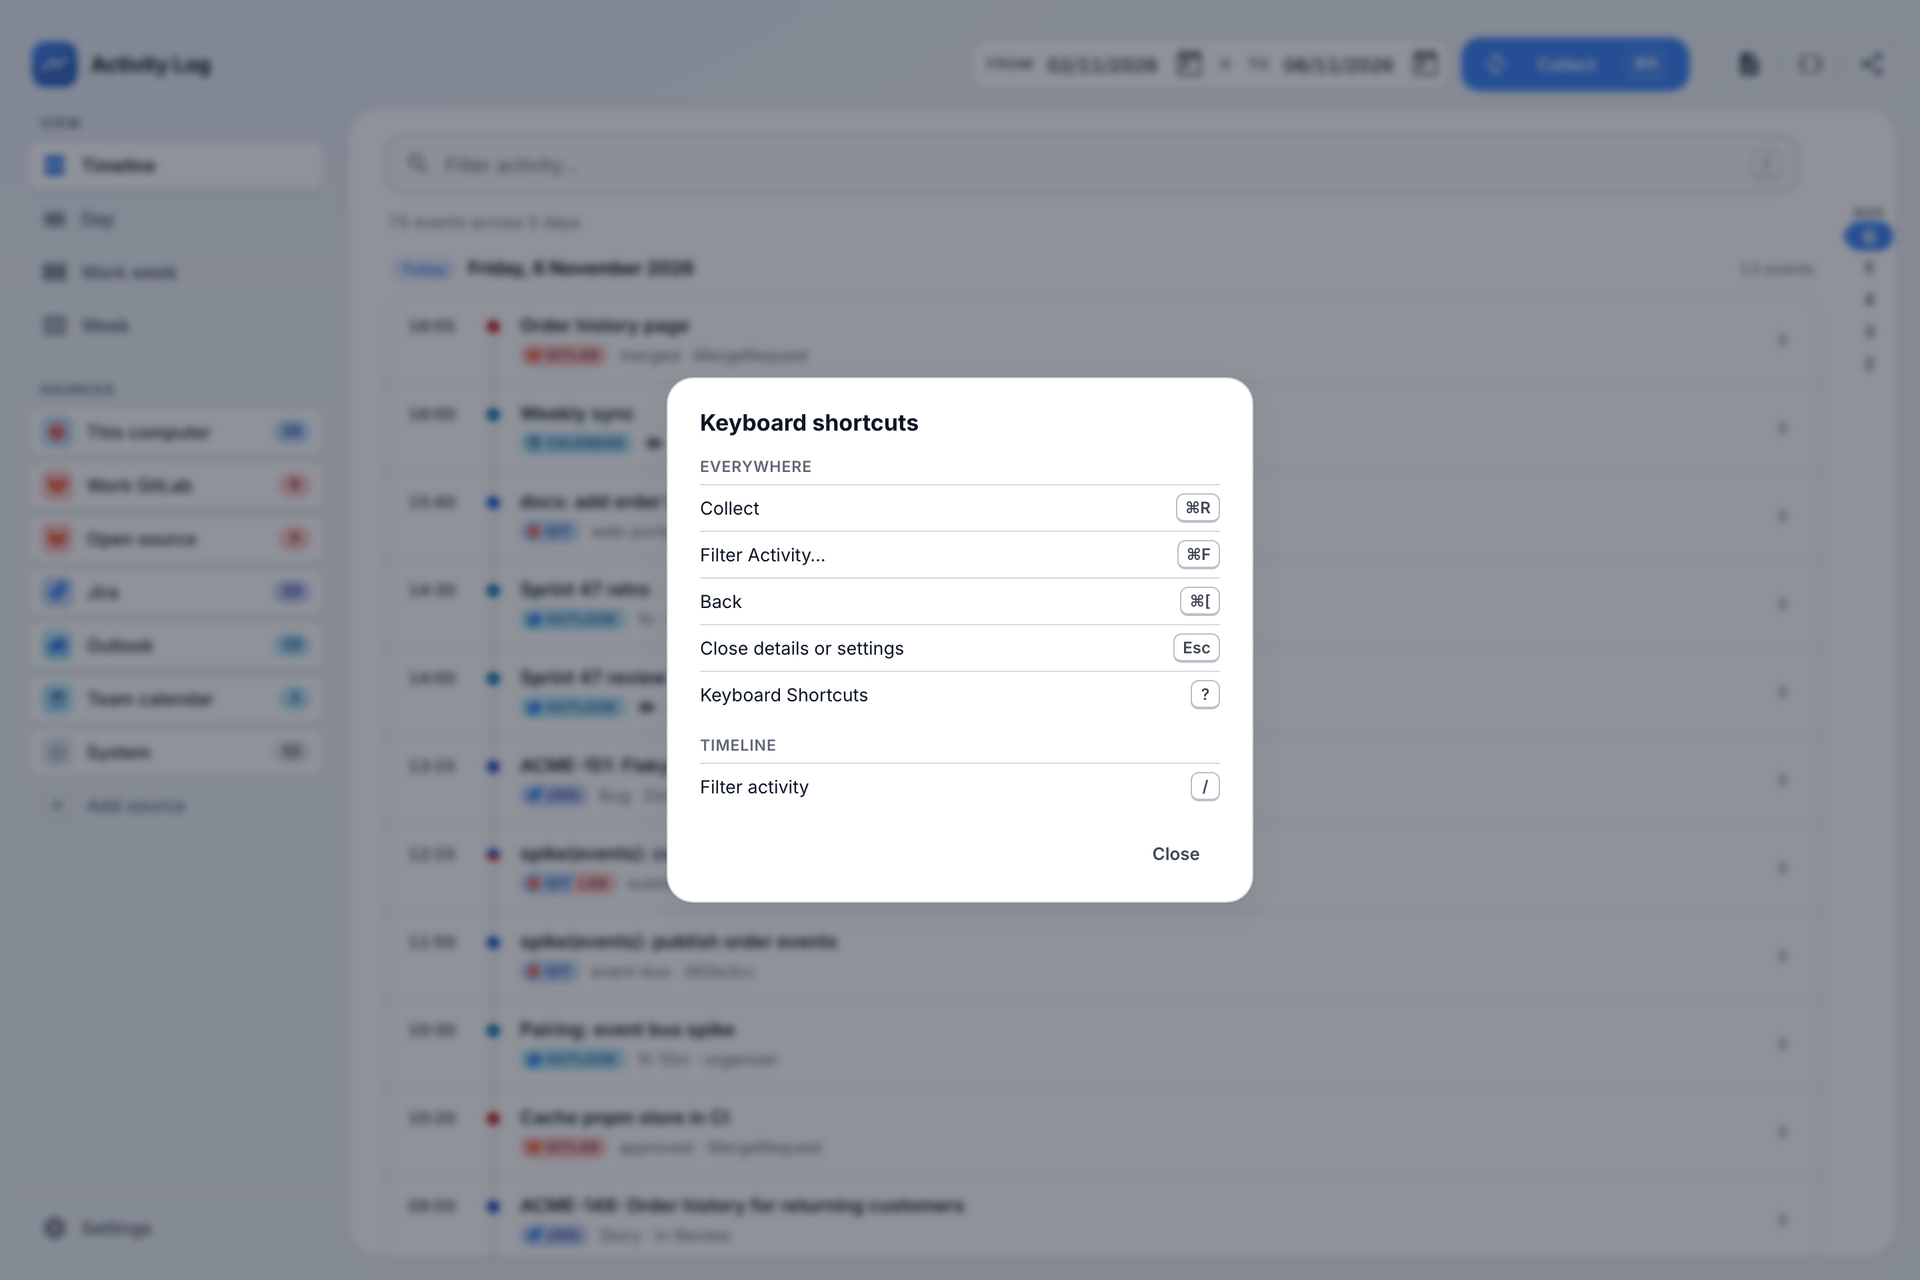
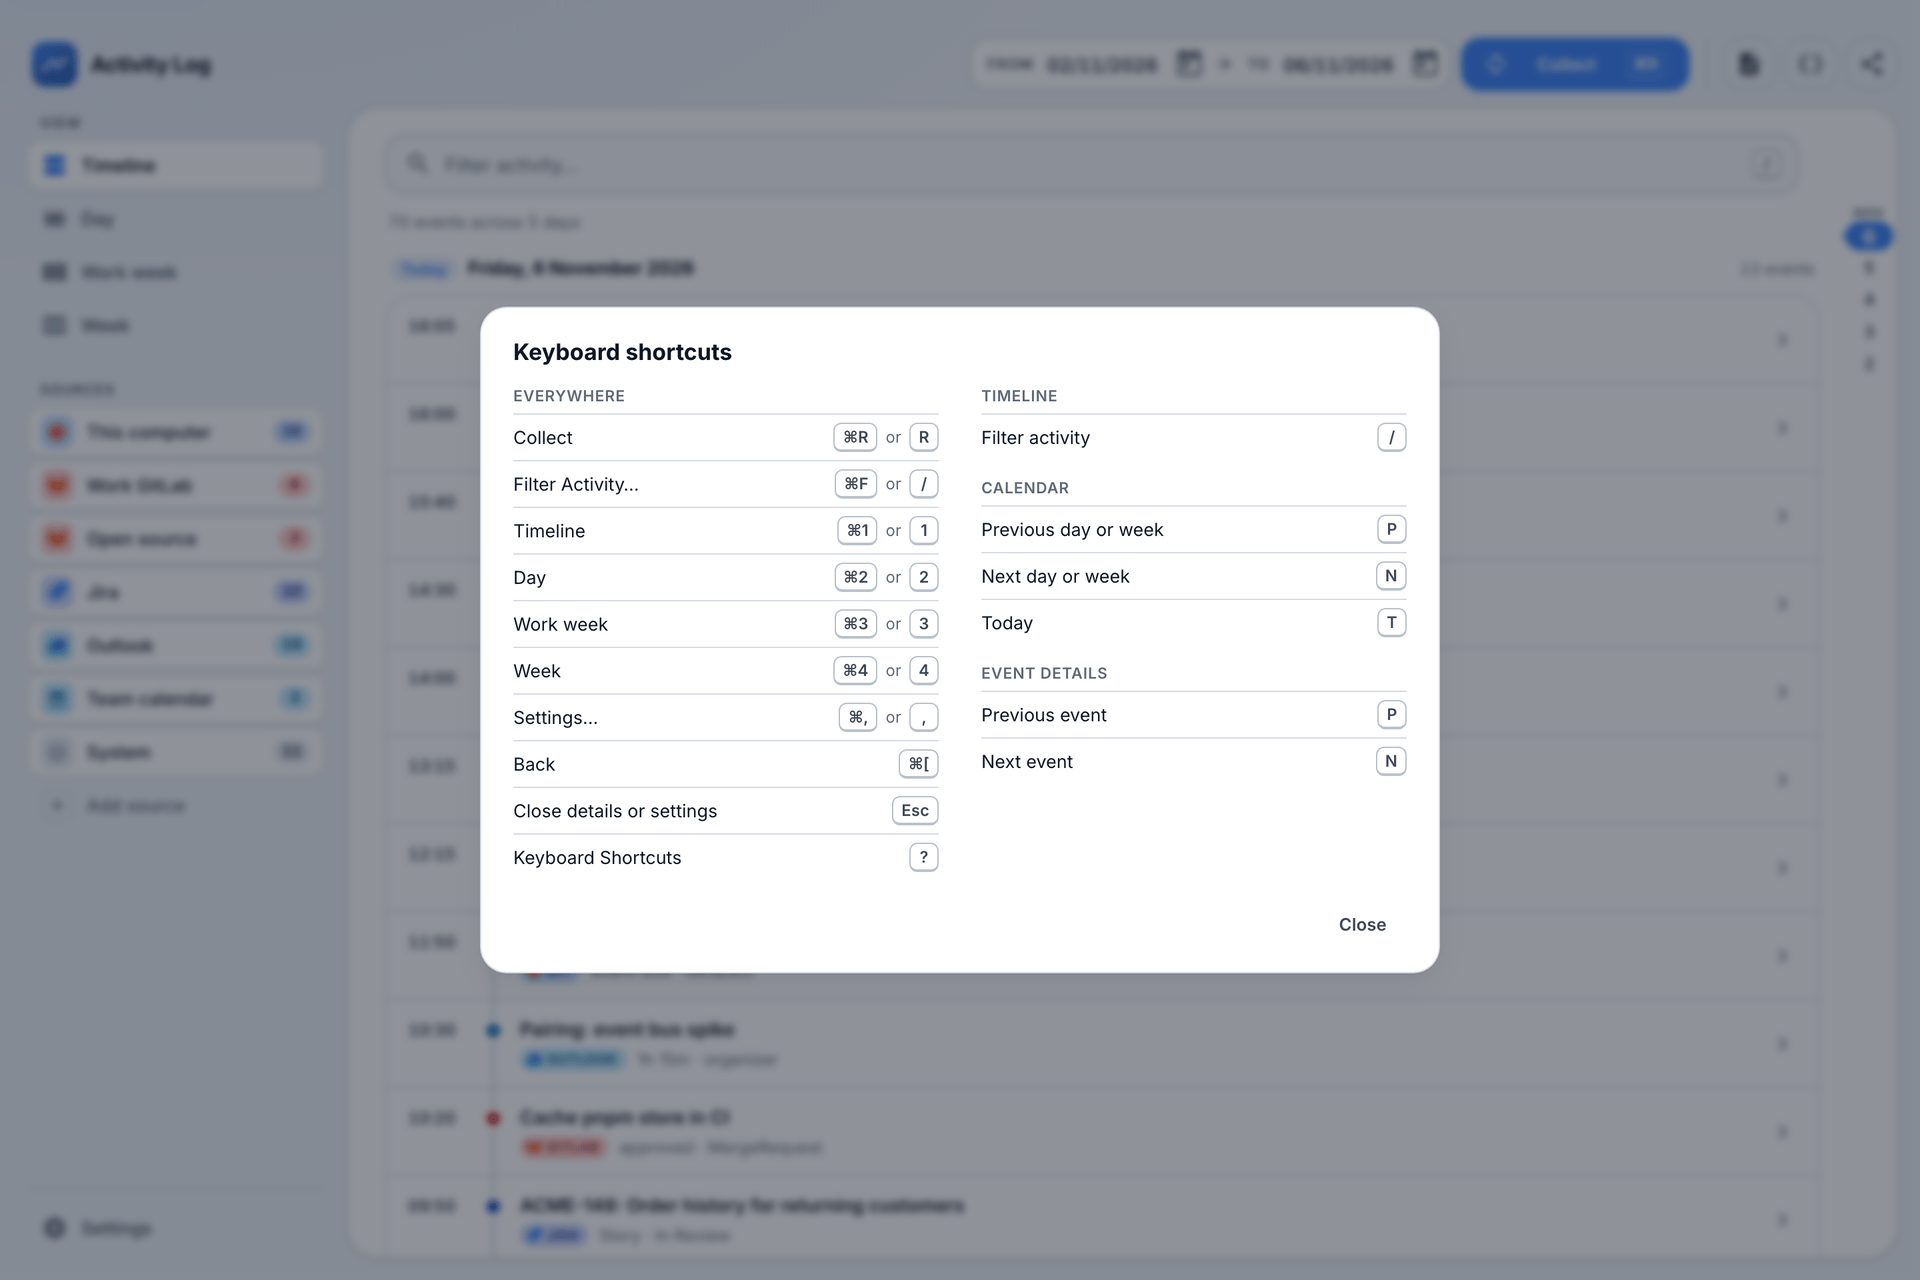
docs: the README's help picture shows each command's keys by scope
`pics/shortcuts-help.png` showed the help before the single keys. It
is shot again in the desktop app on macOS (1440×960 at 2×, Lanczos to
1920×1280, pngquant and oxipng, as the other README pictures): each
command once with its ⌘ chord or single key, in two columns, with the
Calendar and Event details sections.

Plan browser shortcuts.

Changed region(s): [[0.25, 0.2188, 0.75, 0.7812]]

diff --git a/README.md b/README.md
@@ -238,7 +238,7 @@ Press <kbd>?</kbd> anywhere, or open **Settings → General → Keyboard shortcu
 Single keys never trigger while typing in a field or picking from a list. Letters are read by where they are on the keyboard, so <kbd>R</kbd> and <kbd>⌘R</kbd> work on a Cyrillic or Greek layout too; punctuation and digits by the character typed. **Settings → General → Single-key shortcuts** turns every single key off (<kbd>/</kbd> and <kbd>?</kbd> included) for speech input or stray presses; <kbd>Esc</kbd> and the <kbd>⌘</kbd>/<kbd>Ctrl</kbd> chords stay. The setting is kept on the device, like the theme. On Windows, the desktop app disables WebView2's built-in reload, print, find, and back accelerators so these shortcuts reach the dashboard while standard editing and clipboard shortcuts continue to work.
 
 <p align="center">
-  <img src="pics/shortcuts-help.png" width="820" alt="Keyboard shortcuts help dialog opened with ?">
+  <img src="pics/shortcuts-help.png" width="820" alt="Keyboard shortcuts help in the desktop app on macOS: each command with its ⌘ chord or single key, by where it works">
 </p>
 
 ### Export
